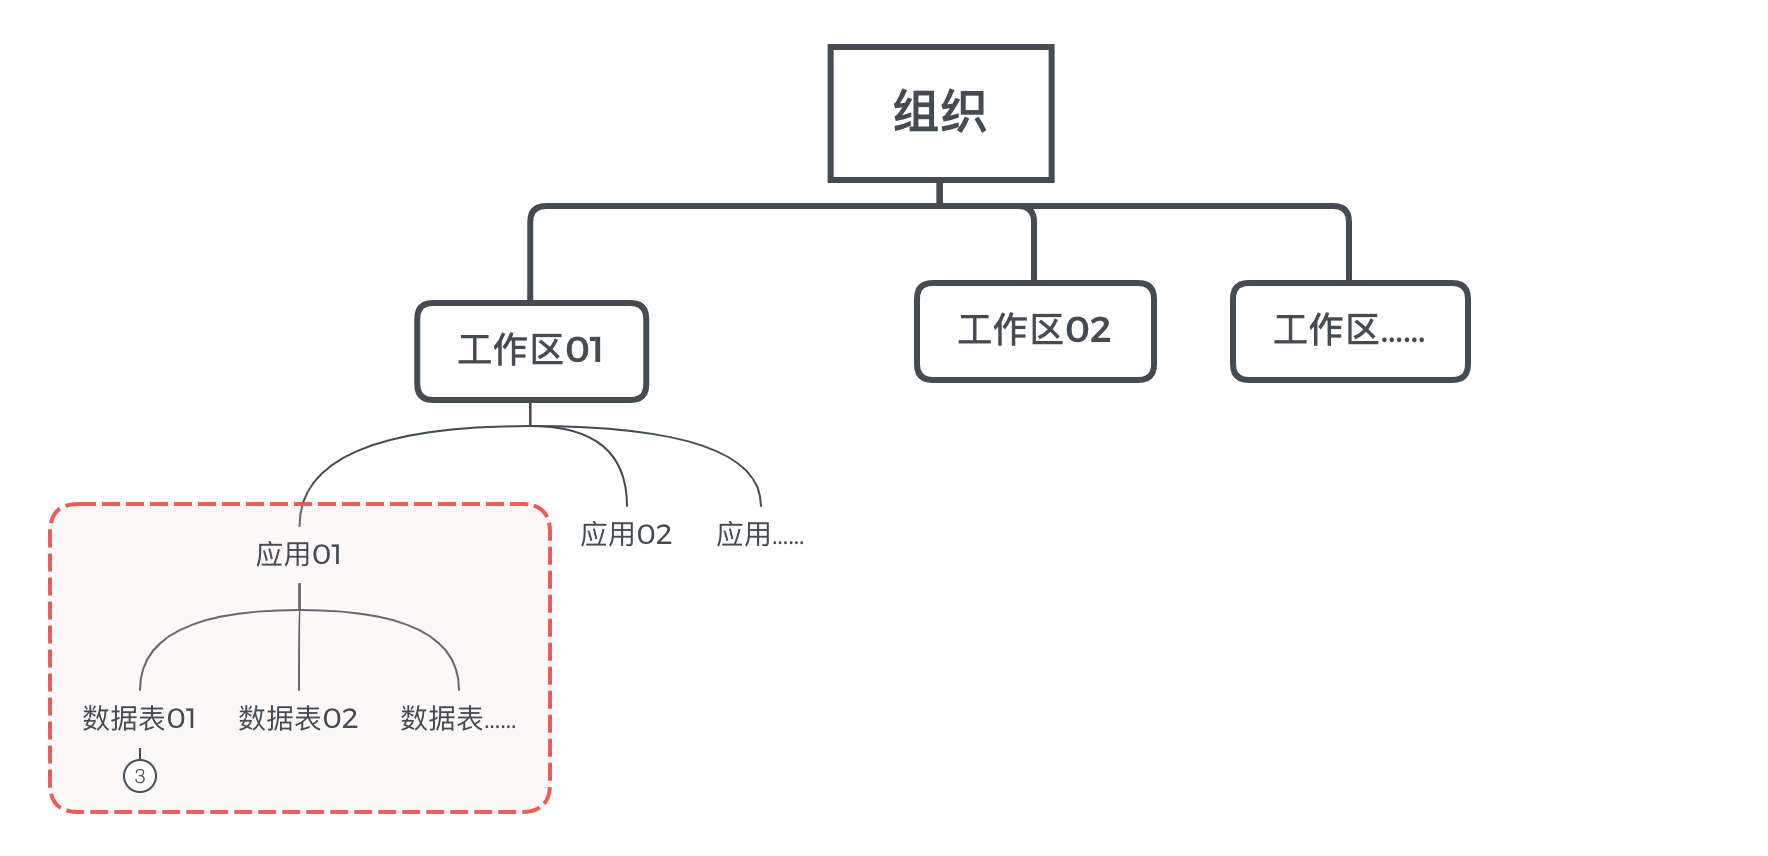
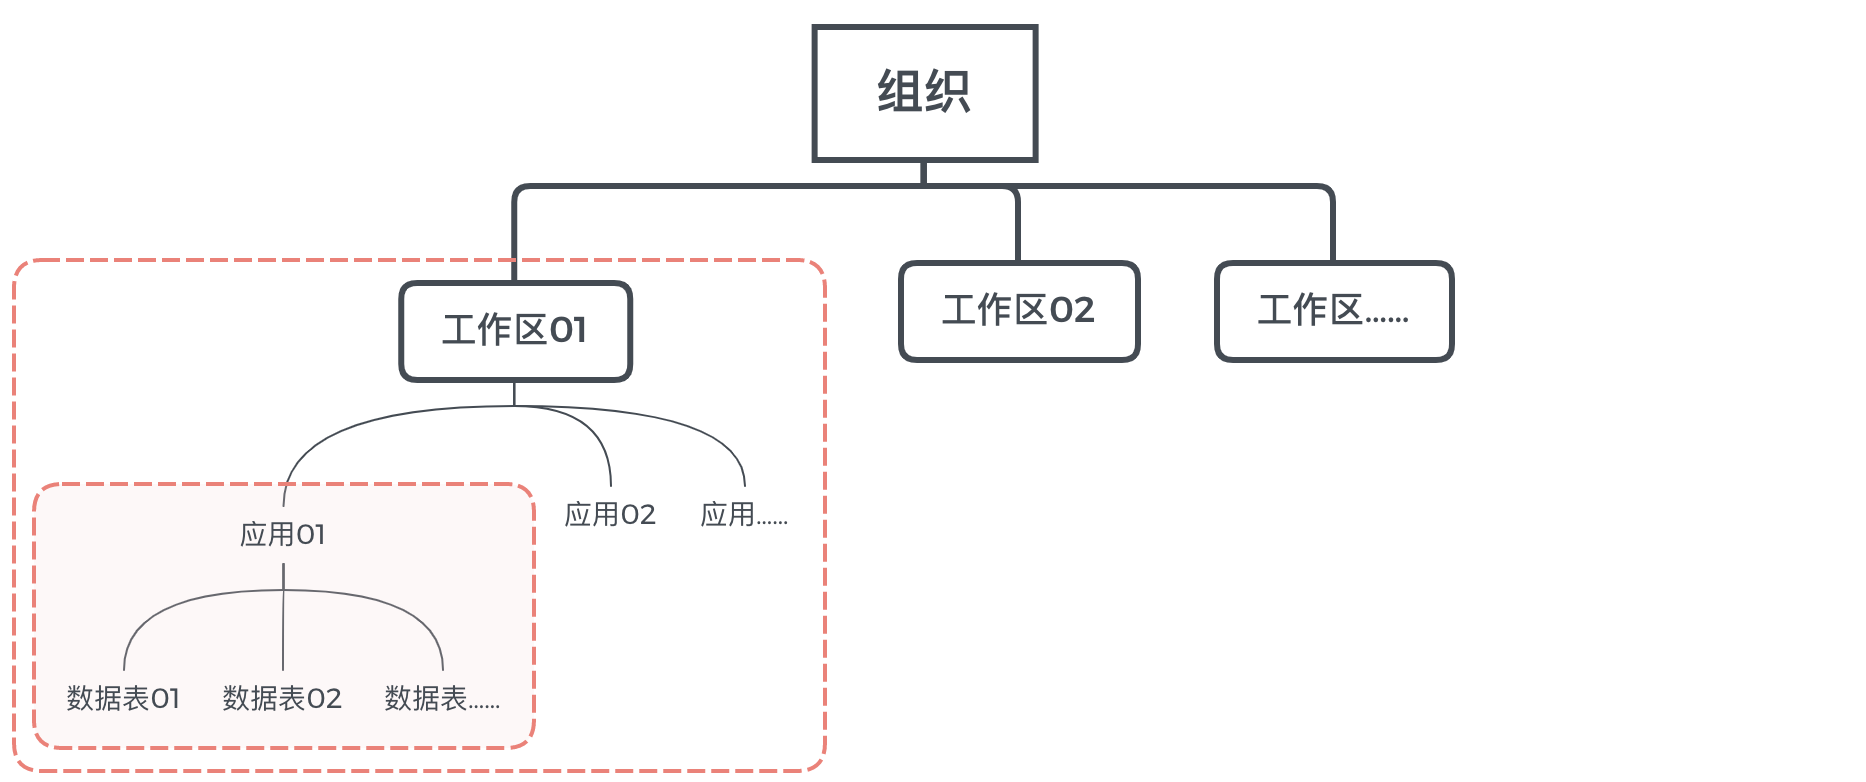
GITBOOK-6: cn update

diff --git a/zh/ji-ben-gong-neng/ying-yong.md b/zh/ji-ben-gong-neng/ying-yong.md
@@ -1,0 +1,69 @@
+# 应用
+
+应用是用于存储和处理特定项目所有信息的工具。每个工作区可以拥有复数个应用，而每个应用都可以独立工作，为特定项目或数据表集合提供清晰的信息结构。
+
+<figure><img src="../.gitbook/assets/image (2) (1).png" alt=""><figcaption><p>应用</p></figcaption></figure>
+
+熟悉数据库的用户则不难发现，应用相当于数据库。每个应用可以包含复数个数据表，就如同每个数据库可以有个张数据库表。
+
+对于不熟悉数据库的用户来说，可以将应用类比为Excel中的工作簿，每个工作簿可以有复数张表。
+
+随着你对Teable的深入探索和使用，你将慢慢体会到Teable在数据管理和安全方面的强大优势，以及诸多独特功能，它将极大地简化你的工作，为你的业务发展提供强大赋能。
+
+### 添加应用
+
+1. 进入工作区
+2. 点击右上角「创建应用」
+
+<figure><img src="../.gitbook/assets/image (14).png" alt=""><figcaption><p>添加应用</p></figcaption></figure>
+
+### 重命名应用
+
+1. 进入工作区
+2. 鼠标悬浮在某应用上
+3. 点击「···」按钮打开菜单
+4. 点击「重命名」
+
+<div align="left">
+
+<figure><img src="../.gitbook/assets/image.png" alt="" width="375"><figcaption><p>重命名</p></figcaption></figure>
+
+</div>
+
+### 删除应用
+
+1. 进入工作区
+2. 鼠标悬浮在某应用上
+3. 点击「···」按钮打开菜单
+4. 点击「删除」
+
+<div align="left">
+
+<figure><img src="../.gitbook/assets/image (1).png" alt="" width="375"><figcaption><p>删除应用</p></figcaption></figure>
+
+</div>
+
+### 将应用移动到另一个工作区
+
+将应用从一个工作区移动到另一个工作区是日常工作中比较常见的需求，以下说明了有关在工作区之间移动应用的步骤：
+
+第一步：在工作区选择您想要从以下位置移动的应用；
+
+第二步：单击**... 选择**菜单图标并选择**移动应用**选项；
+
+第三步：将出现一个弹出窗口，其中包含可用工作区的下拉菜单，您可以将应用移动到其中。如果您没有看到可将应用移动到的工作区，则您可能需要更高的权限或需要工作区所有者将相关设置更改为允许被移动；
+
+### 应用内的功能
+
+应用可以包含多个数据表，用于记录和整理工作或业务相关的信息。
+
+例如：一个用于客户管理的应用可以有单独的“客户公司”、“客户联系人”和“客户跟进记录”的数据表，而一个用于会议室管理的应用也可以有单独的数据表，用于记录“会议室管理”、“会议室设备”和“会议室预约”等维度的记录。
+
+因此，应用内的功能大多与数据表有关
+
+* **创建数据表**：应用允许用户根据项目的特定需求创建新的数据表，用户可以定义表的结构、字段和数据类型。
+* **编辑数据表**：用户可以在应用中对已创建的数据表进行编辑，包括添加、删除和修改记录。
+* **导出和导入数据**：应用支持将数据导出为CSV，同时也可以以此格式导入数据。
+
+参考[数据表相关章节](shu-ju-biao/)获取更多关于数据表的信息
+

diff --git a/zh/ji-ben-gong-neng/zi-duan/README.md b/zh/ji-ben-gong-neng/zi-duan/README.md
@@ -1,25 +1,55 @@
 # 🟡 字段
 
-字段(field)是数据表中用来存储数据的组成部分，也是表格视图中的列。
+字段(Field)在数据表中用来定义数据的属性，也是表格视图中的列。
 
 每个字段都有一个名称，用于标识这个字段，比如“product\_name”。同时，每个字段都有指定的数据类型(Data Type)，它决定了字段可以存储什么样的数据，比如文本、数值、布尔值等。&#x20;
 
 ### 添加字段
 
+在表格视图中，可以按以下步骤操作来添加新的字段：
 
+1. 进入表格视图
+2. 将表格滑动至最右侧
+3.  点击字段栏最右侧的+号\
+
+
+    <figure><img src="../../.gitbook/assets/image (22).png" alt=""><figcaption></figcaption></figure>
+4. 在弹出的对话框内[编辑字段](./#bian-ji-zi-duan)
+5. 点击保存
 
 ### 编辑字段
 
+用户可以在添加字段时编辑字段，也可以在有需要时对已有字段进行编辑。如需对已有字段进行编辑，请参考下述步骤：
 
+1. 右键单击要编辑的字段\
+   ![](<../../.gitbook/assets/image (20).png>)
+2. 在展开的菜单中单击编辑字段选项
+3. 在编辑字段对话框中对字段进行编辑
+4. 点击保存
 
-### 删除字段
+<details>
 
+<summary>字段转换的注意事项</summary>
 
-
-### &#x20;字段转换的注意事项
-
-用户可以将当前字段更改为新的字段类型，例如，将单行文本字段转换为单选字段。但某些情况下，某些转换会丢失数据。例如，将文本字段转换为附件字段会丢失所有文本信息，因为纯文本值无法转换为附件。
+编辑字段可能会引发字段转换。用户可以将当前字段更改为新的字段类型，例如，将单行文本字段转换为单选字段。但某些情况下，某些转换会丢失数据。例如，将文本字段转换为附件字段会丢失所有文本信息，因为纯文本值无法转换为附件。
 
 如果您发现在转换过程中丢失了某些单元格值，您可以使用键盘快捷键Ctrl+Z（Command+Z）撤消转换，将字段恢复到其之前的状态，同时将还原由于转换而丢失的数据。
 
 有关每种字段类型及其特定自定义选项的详细信息，请参阅各字段类型的说明文档。
+
+</details>
+
+### 删除字段
+
+1. 右键单击要编辑的字段\
+   ![](<../../.gitbook/assets/image (31).png>)
+2. 在展开的菜单中单击删除字段选项
+3. 在确认对话框中点击确认
+
+### 隐藏字段
+
+用户可以通过字段右键菜单或者隐藏工具来隐藏字段，被隐藏的字段就不会显示在表格视图内。用户可以随时通过隐藏工具来控制字段的显示或者隐藏。更多关于表格
+
+视图的工具栏的信息请访问[表格视图](../shi-tu/biao-ge-shi-tu.md)的相关文章。
+
+<figure><img src="../../.gitbook/assets/image (25).png" alt=""><figcaption><p>隐藏字段</p></figcaption></figure>

diff --git a/zh/ji-ben-gong-neng/shu-ju-biao/README.md b/zh/ji-ben-gong-neng/shu-ju-biao/README.md
@@ -4,25 +4,61 @@
 
 每个数据表通常会包含多个行和列，其中每一列代表一个字段及其属性，而每一行代表一个记录或数据项。数据表是应用的核心组成部分，用于收集、存储和处理数据以便后续的检索、操作和构建应用。
 
-Teable的数据表等同于数据库表的概念，这个概念有助于理解Teable和传统电子表格之间的差异，以便更好地掌握Teable。
+Teable的数据表等同于数据库表的概念，这个概念有助于理解[Teable和传统电子表格之间的差异](teable-shu-ju-biao-he-dian-zi-biao-ge-de-cha-yi.md)，以便更好地掌握Teable。
 
 <figure><img src="../../.gitbook/assets/image (3).png" alt=""><figcaption><p>数据表</p></figcaption></figure>
+
+### 添加数据表
+
+1. 进入特定应用
+2. 点击目录中的+号按钮
+
+<div align="left">
+
+<figure><img src="../../.gitbook/assets/image (10).png" alt="" width="237"><figcaption></figcaption></figure>
+
+</div>
+
+### 修改数据表名称
+
+1. 在应用中，双击目录中表格名称
+2. 修改数据表名称
+3. 点击输入框外任意区域
+
+<div align="left">
+
+<figure><img src="../../.gitbook/assets/image (11).png" alt="" width="235"><figcaption></figcaption></figure>
+
+</div>
+
+### 删除数据表
+
+1. 数据悬浮在目录中的数据表上
+2. 点击数据表右侧的删除按钮
+
+<div align="left">
+
+<figure><img src="../../.gitbook/assets/image (12).png" alt="" width="257"><figcaption></figcaption></figure>
+
+</div>
 
 ### 访问数据表的方式
 
 用户可以通过三种方式访问数据表：
 
-* 视图
-* API
-* SQL查询语句
+* [视图](../shi-tu/)
+* [API](../../gao-dai-ma-kai-fa/api.md)
+* [SQL查询语句](../../gao-ji-te-xing/yuan-sheng-sql.md)
 
-视图是上述方式中最直观的一种，新添加的数据表都会默认包含一个表格视图便于用户快速开始开始处理数据。
+视图是上述方式中最直观的一种。用户可以通过各种视图对数据表进行检索、操作，并以此构建出复杂的应用。
+
+新添加的数据表都会默认包含一个[表格视图](../shi-tu/biao-ge-shi-tu.md)便于用户快速开始开始处理数据。
 
 ### 数据表的功能
 
 创建视图：用户可以创建多种视图来对数据表进行操作，不同视图用于满足不同场景需求。例如：表格视图数据密度最高，操作方式接近电子表格，上手难度最低。而甘特视图则为项目管理场景提供更好的支持。
 
-管理视图：
+管理视图：用户可以修改视图名称
 
 删除视图：
 

diff --git a/zh/ji-ben-gong-neng/gong-zuo-qu/README.md b/zh/ji-ben-gong-neng/gong-zuo-qu/README.md
@@ -1,8 +1,37 @@
-# ✅ 工作区
+# 工作区
 
 在组织内可以创建多个工作区，每个工作区都可以定义自己的权限设置和成员组成。这些工作区可以包含多个应用，以支持团队在各种规模下进行相关工作的开展。无论是团队、部门、项目组、事业部门或子公司，工作区的建立都可以灵活地满足用户的实际工作需求。
 
 更重要的是，只有在同一工作区内的用户才能访问该工作区内的应用和数据。因此，即便是组织的主管理员，在未加入特定工作区的情况下，也无法访问该工作区内的数据。这一特性为我们的组织提供了数据安全和隐私保护的有力保障。
 
-<figure><img src="../../.gitbook/assets/image (1).png" alt=""><figcaption><p>工作区</p></figcaption></figure>
+<figure><img src="../../.gitbook/assets/image (1) (1).png" alt=""><figcaption><p>工作区</p></figcaption></figure>
 
+### 创建新的工作区
+
+用户可以在登陆Teable之后，点击右上角的「创建工作区」按钮来轻松创建自己的工作区，创建后会自动进入新的工作区，以便用户直接开展工作。
+
+<figure><img src="../../.gitbook/assets/image (16).png" alt=""><figcaption></figcaption></figure>
+
+### 重命名工作区
+
+用户可以根据需要更改工作区名称：
+
+1. 点击工作区右上角「···」按钮，打开工作区菜单
+2. 点击重命名
+3. 设置新的名称
+4. 点击输入框外任意区域即可保存
+
+<figure><img src="../../.gitbook/assets/image (17).png" alt=""><figcaption></figcaption></figure>
+
+### 删除工作区
+
+在必要时也可以删除工作区：
+
+1. 点击工作区右上角「···」按钮，打开工作区菜单
+2. 点击删除
+
+### 🟡 工作区设置
+
+成员设置：
+
+权限设置：

diff --git a/zh/SUMMARY.md b/zh/SUMMARY.md
@@ -16,11 +16,9 @@
     * [扩展插件](ji-ben-gong-neng/zu-zhi/guan-li-yuan-hou-tai/kuo-zhan-cha-jian.md)
     * [报告](ji-ben-gong-neng/zu-zhi/guan-li-yuan-hou-tai/bao-gao.md)
     * [设置](ji-ben-gong-neng/zu-zhi/guan-li-yuan-hou-tai/she-zhi.md)
-* [✅ 工作区](ji-ben-gong-neng/gong-zuo-qu/README.md)
-  * [🟡 创建和管理工作区](ji-ben-gong-neng/gong-zuo-qu/chuang-jian-he-guan-li-gong-zuo-qu.md)
+* [工作区](ji-ben-gong-neng/gong-zuo-qu/README.md)
   * [🟡 添加和移除工作区成员](ji-ben-gong-neng/gong-zuo-qu/tian-jia-he-yi-chu-gong-zuo-qu-cheng-yuan.md)
-* [🟡 应用](ji-ben-gong-neng/ying-yong/README.md)
-  * [🟡 添加和管理应用](ji-ben-gong-neng/ying-yong/tian-jia-he-guan-li-ying-yong.md)
+* [应用](ji-ben-gong-neng/ying-yong.md)
 * [数据表](ji-ben-gong-neng/shu-ju-biao/README.md)
   * [Teable数据表和电子表格的差异](ji-ben-gong-neng/shu-ju-biao/teable-shu-ju-biao-he-dian-zi-biao-ge-de-cha-yi.md)
 * [🟡 字段](ji-ben-gong-neng/zi-duan/README.md)

diff --git a/zh/ji-ben-gong-neng/shi-tu/biao-ge-shi-tu.md b/zh/ji-ben-gong-neng/shi-tu/biao-ge-shi-tu.md
@@ -1,2 +1,33 @@
 # 表格视图
 
+### 表格视图工具栏
+
+#### 隐藏字段
+
+用户可以通过字段右键菜单或者隐藏工具来隐藏字段，被隐藏的字段就不会显示在表格视图内。用户可以随时通过隐藏工具来控制字段的显示或者隐藏。
+
+<figure><img src="../../.gitbook/assets/image (25).png" alt=""><figcaption></figcaption></figure>
+
+#### 筛选
+
+Teable支持高级的筛选组合，能满足复杂的筛选要求。用户可以点击筛选工具打开筛选对话框进行条件配置。
+
+<figure><img src="../../.gitbook/assets/image (26).png" alt=""><figcaption><p>筛选工具</p></figcaption></figure>
+
+
+
+#### 排序
+
+
+
+#### 分组
+
+
+
+#### 条件着色
+
+
+
+#### 行高
+
+用户可以通过修改行高来让单元格显示更多内容。Teable支持四种行高

diff --git a/zh/ji-ben-gong-neng/zi-duan/dan-hang-wen-ben.md b/zh/ji-ben-gong-neng/zi-duan/dan-hang-wen-ben.md
@@ -2,7 +2,7 @@
 
 Teable文本字段用于输入单行文本,是一种非常常用的基础字段类型。当需要在表格中输入较短的文本值时,可以使用文本字段。
 
-🏞图
+<figure><img src="../../.gitbook/assets/image (27).png" alt="" width="316"><figcaption></figcaption></figure>
 
 输入时,可以通过鼠标点击单元格后直接键入文字,也可以使用剪切、复制、粘贴等常用文本编辑操作。
 
@@ -44,3 +44,4 @@ Teable支持在文本字段中设置四种常用显示方式：
 
 </details>
 
+<figure><img src="../../.gitbook/assets/image (28).png" alt="" width="314"><figcaption></figcaption></figure>
